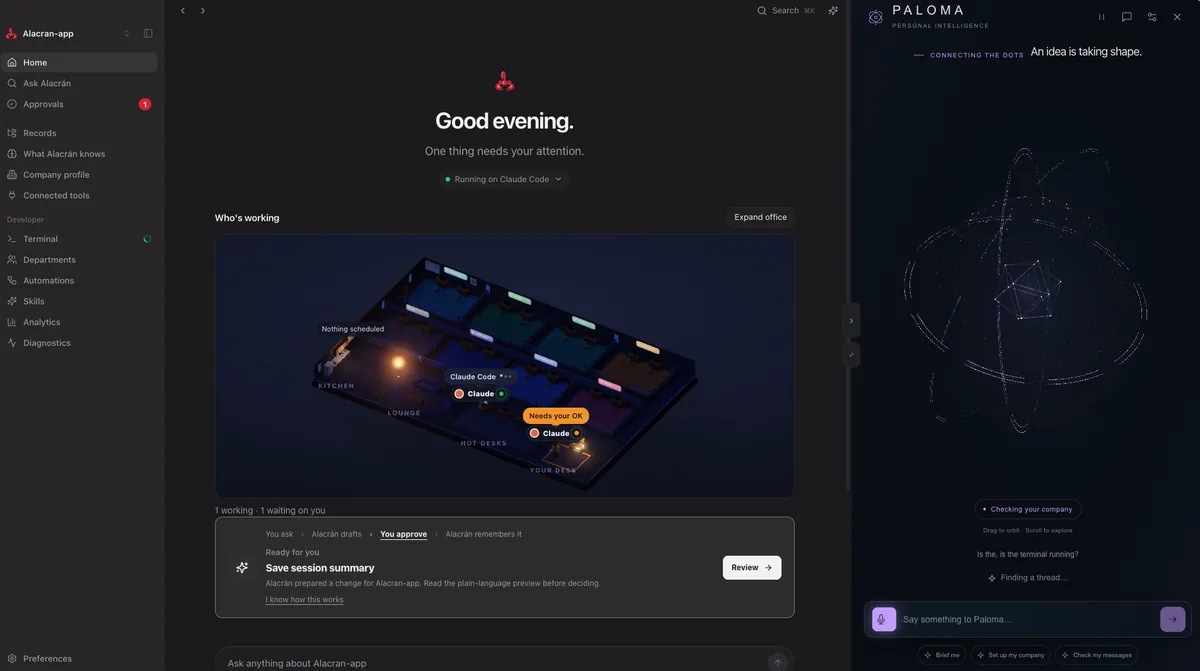
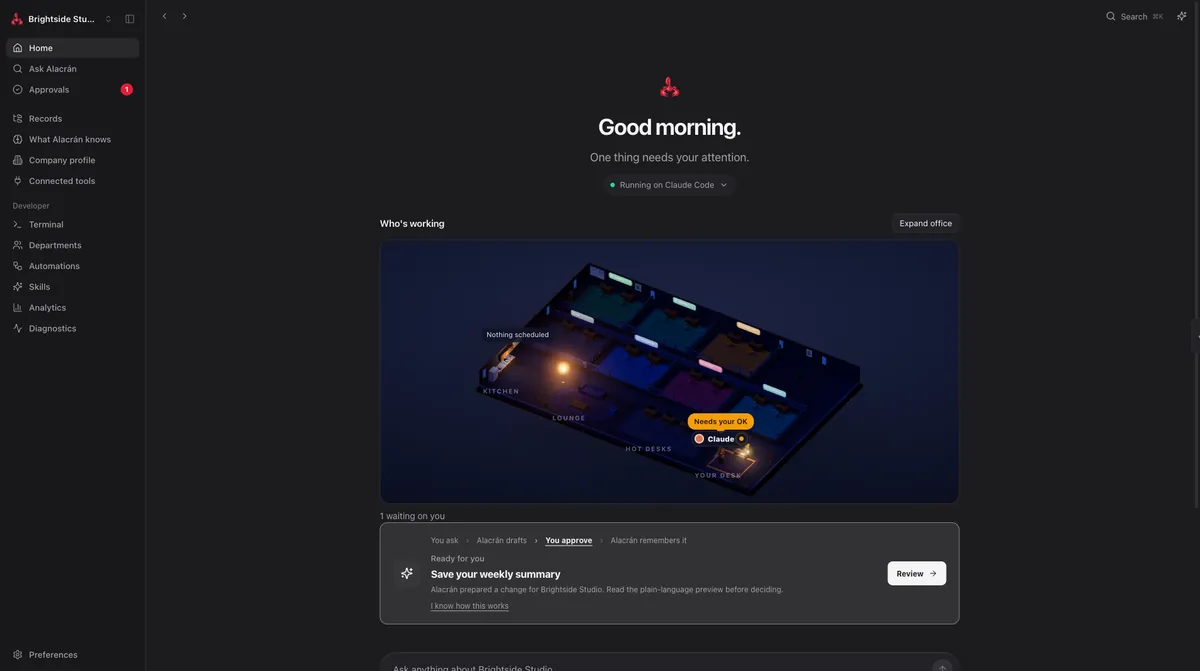
Retake website screenshots from an example company
Six screenshots showed the maintainer's home path, first name or the
internal dev workspace. They are retaken from a throwaway example company
(Brightside Studio) and now carry the sample-data label like the rest.

diff --git a/landing/how-to-use/index.html b/landing/how-to-use/index.html
@@ -43,20 +43,20 @@
 <p>Start with your priorities. Give your AI a specific task. Review the result, update your records, and keep the reasoning for next time.</p>
 <p>New to the app? <a class="go" href="/getting-started">Start with installation <span aria-hidden="true">→</span></a></p></div><div class="hero-vis " aria-hidden="true"><small class="cap">A day with Alacrán</small><ol class="check"><li style="--n:0">Start with the morning briefing</li><li style="--n:1">Choose a department and a task</li><li style="--n:2">Review proposed work</li><li style="--n:3">Keep what is useful</li><li style="--n:4">Turn good tasks into routines</li></ol></div></section>
 <section class="sec "><div class="sec-in"><div class="reveal"><h2 data-split>Start with the morning briefing.</h2></div><div class="reveal"><p>Open your company workspace to see recent activity and work needing attention. Check when each department was last updated before treating its figures as current.</p>
-<figure class="prompt" data-tilt><figcaption>Try asking</figcaption><blockquote><p>Summarize recent activity, work waiting for review, and the three issues I should investigate first. Identify missing or outdated information.</p></blockquote></figure><figure class="shot " data-scroll3d><div class="shot-frame"><div class="bar"><i></i><i></i><i></i><span>Alacrán</span></div><picture><source media="(max-width: 720px)" srcset="/screens/office-light-detail.webp" width="952" height="670"><img src="/screens/office-light-1200.webp" srcset="/screens/office-light-1200.webp 1200w, /screens/office-light.webp 1904w" sizes="(max-width: 1200px) 100vw, 1100px" width="1200" height="671" alt="Home screen in the light theme: the agent office, one agent waiting for approval, and a session summary ready to review" loading="lazy"></picture></div><figcaption class="shot-foot"><span class="disclosure">Alacrán&#x27;s own workspace</span><button type="button" class="zoom" data-full="/screens/office-light.webp" data-alt="Home screen in the light theme: the agent office, one agent waiting for approval, and a session summary ready to review">View full screenshot</button></figcaption></figure></div></div></section>
+<figure class="prompt" data-tilt><figcaption>Try asking</figcaption><blockquote><p>Summarize recent activity, work waiting for review, and the three issues I should investigate first. Identify missing or outdated information.</p></blockquote></figure><figure class="shot " data-scroll3d><div class="shot-frame"><div class="bar"><i></i><i></i><i></i><span>Alacrán</span></div><picture><source media="(max-width: 720px)" srcset="/screens/office-light-detail.webp" width="952" height="670"><img src="/screens/office-light-1200.webp" srcset="/screens/office-light-1200.webp 1200w, /screens/office-light.webp 1904w" sizes="(max-width: 1200px) 100vw, 1100px" width="1200" height="671" alt="Home screen in the light theme: the agent office, one agent waiting for approval, and a weekly summary ready to review" loading="lazy"></picture></div><figcaption class="shot-foot"><span class="disclosure">Example company · Sample data</span><button type="button" class="zoom" data-full="/screens/office-light.webp" data-alt="Home screen in the light theme: the agent office, one agent waiting for approval, and a weekly summary ready to review">View full screenshot</button></figcaption></figure></div></div></section>
 <section class="sec alt"><div class="sec-in"><div class="reveal"><h2 data-split>Choose a department and a concrete task.</h2></div><div class="reveal"><p>In Customers, review the opportunities that need follow-up. In Finances, inspect the latest recorded income and expenses. In Content, move an idea into a draft. In Messages, work through inquiries that need a response.</p>
 <figure class="prompt" data-tilt><figcaption>A clear task gives the agent a useful target</figcaption><blockquote><p>Draft a follow-up for this prospect using our recorded conversation and approved service description. Do not invent a price or promise a delivery date.</p></blockquote></figure></div></div></section>
 <section class="sec "><div class="sec-in"><div class="reveal"><h2 data-split>Review proposed work.</h2></div><div class="reveal"><p>Read the result and inspect any proposed file changes. Use the risk indicator to help prioritize review, then approve, request changes, or discard the proposal.</p>
 <figure class="prompt" data-tilt><figcaption>A revision can be specific</figcaption><blockquote><p>Keep the introduction. Shorten the proposal, remove the unconfirmed deadline, and ask one clear question at the end.</p></blockquote></figure>
-<p>Saving a draft and sending it are separate steps. Check the workflow before taking an external action.</p><figure class="shot " data-scroll3d><div class="shot-frame"><div class="bar"><i></i><i></i><i></i><span>Alacrán</span></div><picture><source media="(max-width: 720px)" srcset="/screens/approvals-detail.webp" width="1000" height="433"><img src="/screens/approvals-1200.webp" srcset="/screens/approvals-1200.webp 1200w, /screens/approvals.webp 1904w" sizes="(max-width: 1200px) 100vw, 1100px" width="1200" height="416" alt="Approvals screen with one pending review marked high risk, listing files the run changed outside its own folder" loading="lazy"></picture></div><figcaption class="shot-foot"><span class="disclosure">Alacrán&#x27;s own workspace</span><button type="button" class="zoom" data-full="/screens/approvals.webp" data-alt="Approvals screen with one pending review marked high risk, listing files the run changed outside its own folder">View full screenshot</button></figcaption></figure></div></div></section>
+<p>Saving a draft and sending it are separate steps. Check the workflow before taking an external action.</p><figure class="shot " data-scroll3d><div class="shot-frame"><div class="bar"><i></i><i></i><i></i><span>Alacrán</span></div><picture><source media="(max-width: 720px)" srcset="/screens/approvals-detail.webp" width="1000" height="699"><img src="/screens/approvals-1200.webp" srcset="/screens/approvals-1200.webp 1200w, /screens/approvals.webp 1904w" sizes="(max-width: 1200px) 100vw, 1100px" width="1200" height="671" alt="Approvals screen with one pending review marked high risk, listing files the run changed outside its own folder" loading="lazy"></picture></div><figcaption class="shot-foot"><span class="disclosure">Example company · Sample data</span><button type="button" class="zoom" data-full="/screens/approvals.webp" data-alt="Approvals screen with one pending review marked high risk, listing files the run changed outside its own folder">View full screenshot</button></figcaption></figure></div></div></section>
 <section class="sec alt" id="template"><div class="sec-in"><div class="reveal"><h2 data-split>Keep your company knowledge useful.</h2></div><div class="reveal"><p>Maintain the company profile as your products, customers, team, and operating rules change. The quality of later work depends on the information available to it.</p></div></div></section>
 <section class="sec " id="decisions"><div class="sec-in"><div class="reveal"><h2 data-split>Record why a decision was made.</h2></div><div class="reveal"><p>Save the choice, the alternatives considered, and the reason behind it. Include what new information would justify revisiting it.</p>
 <figure class="prompt" data-tilt><figcaption>Try asking</figcaption><blockquote><p>Prepare a decision note from this discussion. Separate the decision, the supporting evidence, and the assumptions we still need to test.</p></blockquote></figure></div></div></section>
 <section class="sec alt" id="records"><div class="sec-in"><div class="reveal"><h2 data-split>Maintain operational records.</h2></div><div class="reveal"><p>Review department updates against their source information. Keep customer stages, content status, and financial entries current so later summaries reflect the business as it is.</p></div></div></section>
 <section class="sec "><div class="sec-in"><div class="reveal"><h2 data-split>Turn useful tasks into repeatable workflows.</h2></div><div class="reveal"><p>Once a task produces a useful result, reuse an appropriate skill or configure a recurring job. Monitor the run status and review its output.</p>
-<p>Local background work depends on the app, computer, and required connections being available. Closing the window can leave work running; quitting the app stops its local processes.</p><figure class="shot " data-scroll3d><div class="shot-frame"><div class="bar"><i></i><i></i><i></i><span>Alacrán</span></div><picture><source media="(max-width: 720px)" srcset="/screens/workflows-detail.webp" width="1000" height="415"><img src="/screens/workflows-1200.webp" srcset="/screens/workflows-1200.webp 1200w, /screens/workflows.webp 1904w" sizes="(max-width: 1200px) 100vw, 1100px" width="1200" height="671" alt="Workflows screen with daily cadence and governance workflows, each with Run in Terminal and Prepare draft buttons" loading="lazy"></picture></div><figcaption class="shot-foot"><span class="disclosure">Alacrán&#x27;s own workspace</span><button type="button" class="zoom" data-full="/screens/workflows.webp" data-alt="Workflows screen with daily cadence and governance workflows, each with Run in Terminal and Prepare draft buttons">View full screenshot</button></figcaption></figure></div></div></section>
+<p>Local background work depends on the app, computer, and required connections being available. Closing the window can leave work running; quitting the app stops its local processes.</p><figure class="shot " data-scroll3d><div class="shot-frame"><div class="bar"><i></i><i></i><i></i><span>Alacrán</span></div><picture><source media="(max-width: 720px)" srcset="/screens/workflows-detail.webp" width="1000" height="415"><img src="/screens/workflows-1200.webp" srcset="/screens/workflows-1200.webp 1200w, /screens/workflows.webp 1904w" sizes="(max-width: 1200px) 100vw, 1100px" width="1200" height="671" alt="Workflows screen with daily cadence and governance workflows, each with Run in Terminal and Prepare draft buttons" loading="lazy"></picture></div><figcaption class="shot-foot"><span class="disclosure">Example company · Sample data</span><button type="button" class="zoom" data-full="/screens/workflows.webp" data-alt="Workflows screen with daily cadence and governance workflows, each with Run in Terminal and Prepare draft buttons">View full screenshot</button></figcaption></figure></div></div></section>
 <section class="sec alt" id="assistant"><div class="sec-in"><div class="reveal"><h2 data-split>Use the assistant your way.</h2></div><div class="reveal"><p>Type a request or use supported voice input. Choose your assistant’s language, tone, and voice settings. Voice processing depends on the selected provider and configuration.</p>
-<p>For technical work, Advanced mode exposes terminals, agent workspaces, skills, and connection configuration.</p><figure class="shot " data-scroll3d><div class="shot-frame"><div class="bar"><i></i><i></i><i></i><span>Alacrán</span></div><picture><source media="(max-width: 720px)" srcset="/screens/preferences-detail.webp" width="723" height="692"><img src="/screens/preferences-1200.webp" srcset="/screens/preferences-1200.webp 1200w, /screens/preferences.webp 1904w" sizes="(max-width: 1200px) 100vw, 1100px" width="1200" height="671" alt="Preferences screen where you name the assistant, choose the languages you each speak, and pick its voice" loading="lazy"></picture></div><figcaption class="shot-foot"><span class="disclosure">Alacrán&#x27;s own workspace</span><button type="button" class="zoom" data-full="/screens/preferences.webp" data-alt="Preferences screen where you name the assistant, choose the languages you each speak, and pick its voice">View full screenshot</button></figcaption></figure></div></div></section>
+<p>For technical work, Advanced mode exposes terminals, agent workspaces, skills, and connection configuration.</p><figure class="shot " data-scroll3d><div class="shot-frame"><div class="bar"><i></i><i></i><i></i><span>Alacrán</span></div><picture><source media="(max-width: 720px)" srcset="/screens/preferences-detail.webp" width="723" height="692"><img src="/screens/preferences-1200.webp" srcset="/screens/preferences-1200.webp 1200w, /screens/preferences.webp 1904w" sizes="(max-width: 1200px) 100vw, 1100px" width="1200" height="671" alt="Preferences screen where you name the assistant, choose the languages you each speak, and pick its voice" loading="lazy"></picture></div><figcaption class="shot-foot"><span class="disclosure">Example company · Sample data</span><button type="button" class="zoom" data-full="/screens/preferences.webp" data-alt="Preferences screen where you name the assistant, choose the languages you each speak, and pick its voice">View full screenshot</button></figcaption></figure></div></div></section>
 <section class="sec "><div class="sec-in"><div class="reveal"><h2 data-split>Switch companies deliberately.</h2></div><div class="reveal"><p>Keep each business in its own workspace. Before sharing context through Company Strings, inspect what will become available to the other workspace. Cross-company questions should use only the scope you intend.</p></div></div></section>
 <section class="sec alt"><div class="sec-in"><div class="reveal"><h2 data-split>Check the system when something looks wrong.</h2></div><div class="reveal"><p>Use System Doctor to inspect company files, record validation, repository status, and connector readiness. Review suggested repairs before applying them.</p>
 <div class="actions"><a class="btn btn-ghost" href="/use-cases">Find a workflow to try</a></div></div></div></section>

diff --git a/landing/index.html b/landing/index.html
@@ -54,7 +54,7 @@
 <section class="sec tour" id="tour"><div class="sec-in">
   <div class="reveal"><h2>See the work move forward.</h2><p class="lede">Screens from the app: what needs you today, a change waiting for review, and the company memory your agents read.</p></div>
   <span class="stamp" aria-hidden="true">Approved</span><div class="tabs reveal" role="tablist" aria-label="Product tour"><button type="button" role="tab" id="tt-0" aria-controls="tp-0" aria-selected="true">Morning briefing</button><button type="button" role="tab" id="tt-1" aria-controls="tp-1" aria-selected="false" tabindex="-1">Review</button><button type="button" role="tab" id="tt-2" aria-controls="tp-2" aria-selected="false" tabindex="-1">Company memory</button></div>
-  <figure class="shot shot-tour" data-scroll3d><div class="shot-frame"><div class="bar"><i></i><i></i><i></i><span>Alacrán</span></div><div role="tabpanel" id="tp-0" aria-labelledby="tt-0" class="tour-panel"><div class="tour-media"><picture><source media="(max-width: 720px)" srcset="/screens/office-dark-detail.webp" width="1000" height="686"><img src="/screens/office-dark-1200.webp" srcset="/screens/office-dark-1200.webp 1200w, /screens/office-dark.webp 1904w" sizes="(max-width: 1200px) 100vw, 1100px" width="1200" height="671" alt="Home screen greeting with one item needing attention, a 3D office showing which agents are working, a change ready for review, and the voice assistant open beside it"></picture></div><div class="tour-cap"><p>See what needs your attention and which agents are working.</p><p class="shot-foot"><span class="disclosure">Alacrán&#x27;s own workspace</span><button type="button" class="zoom" data-full="/screens/office-dark.webp" data-alt="Home screen greeting with one item needing attention, a 3D office showing which agents are working, a change ready for review, and the voice assistant open beside it">View full screenshot</button></p></div></div><div role="tabpanel" id="tp-1" aria-labelledby="tt-1" class="tour-panel" hidden><div class="tour-media"><picture><source media="(max-width: 720px)" srcset="/screens/approvals-detail.webp" width="1000" height="433"><img src="/screens/approvals-1200.webp" srcset="/screens/approvals-1200.webp 1200w, /screens/approvals.webp 1904w" sizes="(max-width: 1200px) 100vw, 1100px" width="1200" height="416" alt="Approvals screen with one pending review marked high risk, listing files the run changed outside its own folder" loading="lazy"></picture></div><div class="tour-cap"><p>Check a proposed change, see what it touched, and choose what to keep.</p><p class="shot-foot"><span class="disclosure">Alacrán&#x27;s own workspace</span><button type="button" class="zoom" data-full="/screens/approvals.webp" data-alt="Approvals screen with one pending review marked high risk, listing files the run changed outside its own folder">View full screenshot</button></p></div></div><div role="tabpanel" id="tp-2" aria-labelledby="tt-2" class="tour-panel" hidden><div class="tour-media"><picture><source media="(max-width: 720px)" srcset="/screens/memory-detail.webp" width="1000" height="528"><img src="/screens/memory-1200.webp" srcset="/screens/memory-1200.webp 1200w, /screens/memory.webp 2000w" sizes="(max-width: 1200px) 100vw, 1100px" width="1200" height="750" alt="Company memory map linking definitions, decisions, records and agents" loading="lazy"></picture></div><div class="tour-cap"><p>See the facts, decisions and records your agents read, mapped in one place.</p><p class="shot-foot"><span class="disclosure">Example company · Sample data</span><button type="button" class="zoom" data-full="/screens/memory.webp" data-alt="Company memory map linking definitions, decisions, records and agents">View full screenshot</button></p></div></div></div></figure>
+  <figure class="shot shot-tour" data-scroll3d><div class="shot-frame"><div class="bar"><i></i><i></i><i></i><span>Alacrán</span></div><div role="tabpanel" id="tp-0" aria-labelledby="tt-0" class="tour-panel"><div class="tour-media"><picture><source media="(max-width: 720px)" srcset="/screens/office-dark-detail.webp" width="1000" height="686"><img src="/screens/office-dark-1200.webp" srcset="/screens/office-dark-1200.webp 1200w, /screens/office-dark.webp 1904w" sizes="(max-width: 1200px) 100vw, 1100px" width="1200" height="671" alt="Home screen in the dark theme: one item needing attention, the 3D agent office with an agent waiting for approval, and a weekly summary ready to review"></picture></div><div class="tour-cap"><p>See what needs your attention and which agents are working.</p><p class="shot-foot"><span class="disclosure">Example company · Sample data</span><button type="button" class="zoom" data-full="/screens/office-dark.webp" data-alt="Home screen in the dark theme: one item needing attention, the 3D agent office with an agent waiting for approval, and a weekly summary ready to review">View full screenshot</button></p></div></div><div role="tabpanel" id="tp-1" aria-labelledby="tt-1" class="tour-panel" hidden><div class="tour-media"><picture><source media="(max-width: 720px)" srcset="/screens/approvals-detail.webp" width="1000" height="699"><img src="/screens/approvals-1200.webp" srcset="/screens/approvals-1200.webp 1200w, /screens/approvals.webp 1904w" sizes="(max-width: 1200px) 100vw, 1100px" width="1200" height="671" alt="Approvals screen with one pending review marked high risk, listing files the run changed outside its own folder" loading="lazy"></picture></div><div class="tour-cap"><p>Check a proposed change, see what it touched, and choose what to keep.</p><p class="shot-foot"><span class="disclosure">Example company · Sample data</span><button type="button" class="zoom" data-full="/screens/approvals.webp" data-alt="Approvals screen with one pending review marked high risk, listing files the run changed outside its own folder">View full screenshot</button></p></div></div><div role="tabpanel" id="tp-2" aria-labelledby="tt-2" class="tour-panel" hidden><div class="tour-media"><picture><source media="(max-width: 720px)" srcset="/screens/memory-detail.webp" width="1000" height="528"><img src="/screens/memory-1200.webp" srcset="/screens/memory-1200.webp 1200w, /screens/memory.webp 2000w" sizes="(max-width: 1200px) 100vw, 1100px" width="1200" height="750" alt="Company memory map linking definitions, decisions, records and agents" loading="lazy"></picture></div><div class="tour-cap"><p>See the facts, decisions and records your agents read, mapped in one place.</p><p class="shot-foot"><span class="disclosure">Example company · Sample data</span><button type="button" class="zoom" data-full="/screens/memory.webp" data-alt="Company memory map linking definitions, decisions, records and agents">View full screenshot</button></p></div></div></div></figure>
 </div></section>
 <section class="sec" id="features"><div class="sec-in"><div class="reveal"><h2 data-split>Know what needs you. Give AI the work it can help with.</h2></div><div class="cards cols-2 bento"><article class="card" style="--i:0"><span class="num">01</span><div class="cell-vis" aria-hidden="true"><div class="row need" style="--n:0"><i></i>Customer inquiry waiting</div><div class="row" style="--n:1"><i></i>3 follow-ups ready</div><div class="row" style="--n:2"><i></i>Finances refreshed</div><div class="row" style="--n:3"><i></i>2 drafts to review</div></div><h3>See what needs your attention.</h3><p>Bring recent changes, pending work, and department activity into one briefing. Check what is current and what needs a refresh.</p></article><article class="card" style="--i:1"><span class="num">02</span><div class="cell-vis" aria-hidden="true"><div class="row" style="--n:0"><i></i><span class="type" style="--n:0;--w:24ch">definitions/company.yaml</span></div><div class="row" style="--n:1"><i></i><span class="type" style="--n:1;--w:22ch">docs/decisions/pricing.md</span></div><div class="row" style="--n:2"><i></i><span class="type" style="--n:2;--w:25ch">notes/company/sessions/</span></div></div><h3>Give AI your business context.</h3><p>Keep business facts, working notes, and past decisions together so your connected AI can use them in the next task.</p></article><article class="card" style="--i:2"><span class="num">03</span><div class="cell-vis days" aria-hidden="true"><u style="--n:0;--h:0.5"></u><u style="--n:1;--h:0.8"></u><u style="--n:2;--h:0.6"></u><u style="--n:3;--h:1"></u><u style="--n:4;--h:0.7"></u><u style="--n:5;--h:0.4"></u><u style="--n:6;--h:0.9"></u><em>Runs every morning</em></div><h3>Build a routine for recurring work.</h3><p>Use built-in skills and recurring jobs for summaries, department updates, research, and reviews. See what is running and what is ready.</p></article><article class="card" style="--i:3"><span class="num">04</span><div class="cell-vis diff" aria-hidden="true"><p class="del">- Reply by Friday</p><p class="add">+ Reply by Thursday, menu attached</p><p class="add">+ Offer the team a tasting</p><div class="go-row"><em>Approve</em><em>Ask for changes</em></div><span class="stamp">Saved</span></div><h3>Review changes before keeping them.</h3><p>Inspect proposed file changes from managed workflows, request revisions, and approve the work you want to save.</p></article></div></div></section>
 <section class="sec" id="departments"><div class="sec-in"><div class="reveal"><h2 data-split>One workspace for the work around your business.</h2></div><div class="depts"><article class="dept"><span class="idx">01</span><h3>Customers</h3><p>Research prospects, track opportunities, and prepare follow-ups with the customer context close at hand.</p>

diff --git a/landing/docs/index.html b/landing/docs/index.html
@@ -49,7 +49,7 @@
 <section class="sec alt"><div class="sec-in"><div class="reveal"><h2 data-split>Company memory and knowledge lifecycle</h2></div><div class="reveal"><p>The company profile provides a shared reference for business facts. Notes and records add operational context. Decision logs preserve why a choice was made.</p>
 <p>The knowledge graph helps explore relationships between entities, files, facts, and decisions. Lifecycle states distinguish draft, proposed, active, and deprecated knowledge. A graph view helps navigate information; it does not certify that the information is complete or correct.</p></div></div></section>
 <section class="sec "><div class="sec-in"><div class="reveal"><h2 data-split>Departments and structured records</h2></div><div class="reveal"><p>Department screens bring together metrics, records, connection status, and relevant agent actions. Record schemas help validate the structure of saved data. Custom departments can define additional records and workflows for specialized operations.</p>
-<p>Validation can detect malformed data. It cannot establish that a customer statement, financial entry, or AI conclusion is true.</p><figure class="shot " data-scroll3d><div class="shot-frame"><div class="bar"><i></i><i></i><i></i><span>Alacrán</span></div><picture><source media="(max-width: 720px)" srcset="/screens/departments-detail.webp" width="1000" height="428"><img src="/screens/departments-1200.webp" srcset="/screens/departments-1200.webp 1200w, /screens/departments.webp 1904w" sizes="(max-width: 1200px) 100vw, 1100px" width="1200" height="671" alt="Departments screen listing each department with its record files, and the people who sign off on changes" loading="lazy"></picture></div><figcaption class="shot-foot"><span class="disclosure">Alacrán&#x27;s own workspace</span><button type="button" class="zoom" data-full="/screens/departments.webp" data-alt="Departments screen listing each department with its record files, and the people who sign off on changes">View full screenshot</button></figcaption></figure></div></div></section>
+<p>Validation can detect malformed data. It cannot establish that a customer statement, financial entry, or AI conclusion is true.</p><figure class="shot " data-scroll3d><div class="shot-frame"><div class="bar"><i></i><i></i><i></i><span>Alacrán</span></div><picture><source media="(max-width: 720px)" srcset="/screens/departments-detail.webp" width="1000" height="428"><img src="/screens/departments-1200.webp" srcset="/screens/departments-1200.webp 1200w, /screens/departments.webp 1904w" sizes="(max-width: 1200px) 100vw, 1100px" width="1200" height="671" alt="Departments screen listing each department with its record files, and the people who sign off on changes" loading="lazy"></picture></div><figcaption class="shot-foot"><span class="disclosure">Example company · Sample data</span><button type="button" class="zoom" data-full="/screens/departments.webp" data-alt="Departments screen listing each department with its record files, and the people who sign off on changes">View full screenshot</button></figcaption></figure></div></div></section>
 <section class="sec alt"><div class="sec-in"><div class="reveal"><h2 data-split>Agent execution</h2></div><div class="reveal"><p>Choose a supported executor globally or for a company. Alacrán supplies company context and interfaces for tasks, run visibility, and review.</p>
 <p>Advanced workspaces include embedded terminals and multiple terminal views. Managed agent commands can use isolated Git worktrees to separate proposed work from the main working tree. Session notes help preserve useful context from completed work.</p>
 <p>Worktree isolation separates file changes; it is not, by itself, a security sandbox for network access, credentials, or external services.</p></div></div></section>
@@ -63,7 +63,7 @@
 <p>Severing a link removes the ongoing sharing relationship. It does not retract information already used in a result, copied elsewhere, or sent to an external provider.</p></div></div></section>
 <section class="sec "><div class="sec-in"><div class="reveal"><h2 data-split>Skills and recurring workflows</h2></div><div class="reveal"><p>Skills package reusable instructions for particular tasks. Built-in commands cover company definition, briefings, decisions, retrospectives, department synchronization, message triage, and engineering work.</p>
 <p>The skills editor supports adapting and versioning these instructions. Workflow maps show the structure of operational processes, while execution records help track runs.</p>
-<p>Scheduled work requires the local application and relevant dependencies to remain available. Use the visible run status to distinguish a completed job from a missed or failed run.</p><figure class="shot " data-scroll3d><div class="shot-frame"><div class="bar"><i></i><i></i><i></i><span>Alacrán</span></div><picture><source media="(max-width: 720px)" srcset="/screens/workflows-detail.webp" width="1000" height="415"><img src="/screens/workflows-1200.webp" srcset="/screens/workflows-1200.webp 1200w, /screens/workflows.webp 1904w" sizes="(max-width: 1200px) 100vw, 1100px" width="1200" height="671" alt="Workflows screen with daily cadence and governance workflows, each with Run in Terminal and Prepare draft buttons" loading="lazy"></picture></div><figcaption class="shot-foot"><span class="disclosure">Alacrán&#x27;s own workspace</span><button type="button" class="zoom" data-full="/screens/workflows.webp" data-alt="Workflows screen with daily cadence and governance workflows, each with Run in Terminal and Prepare draft buttons">View full screenshot</button></figcaption></figure></div></div></section>
+<p>Scheduled work requires the local application and relevant dependencies to remain available. Use the visible run status to distinguish a completed job from a missed or failed run.</p><figure class="shot " data-scroll3d><div class="shot-frame"><div class="bar"><i></i><i></i><i></i><span>Alacrán</span></div><picture><source media="(max-width: 720px)" srcset="/screens/workflows-detail.webp" width="1000" height="415"><img src="/screens/workflows-1200.webp" srcset="/screens/workflows-1200.webp 1200w, /screens/workflows.webp 1904w" sizes="(max-width: 1200px) 100vw, 1100px" width="1200" height="671" alt="Workflows screen with daily cadence and governance workflows, each with Run in Terminal and Prepare draft buttons" loading="lazy"></picture></div><figcaption class="shot-foot"><span class="disclosure">Example company · Sample data</span><button type="button" class="zoom" data-full="/screens/workflows.webp" data-alt="Workflows screen with daily cadence and governance workflows, each with Run in Terminal and Prepare draft buttons">View full screenshot</button></figcaption></figure></div></div></section>
 <section class="sec alt" id="data-and-connections"><div class="sec-in"><div class="reveal"><h2 data-split>Data and connections</h2></div><div class="reveal"><p>Company records are stored on your computer. AI execution can send prompts and relevant context to the selected provider. Voice features may send audio to a speech service. Connected tools exchange information with the services you enable. Optional GitHub backup transfers files to your configured repository.</p>
 <p>Local storage does not imply fully offline operation or that every answer is produced locally. Some direct factual lookups may be resolved from saved records; generative work depends on the configured agent.</p></div></div></section>
 <section class="sec "><div class="sec-in"><div class="reveal"><h2 data-split>Diagnostics and maintenance</h2></div><div class="reveal"><p>System Doctor checks repository condition, expected folders, dependencies, connector readiness, and record structure. Suggested repair actions help address detected problems.</p>

diff --git a/landing/build-site.py b/landing/build-site.py
@@ -39,19 +39,19 @@ DOWNLOAD_LABEL = "Download Alacrán"
 # read from the files. The detail crop (fractions left, top, right, bottom) is
 # what a phone shows, because a whole desktop window at 360px is unreadable;
 # build_details() cuts it to <name>-detail.webp. Sample-company shots carry the
-# copy's disclosure; shots of Alacrán's own workspace say so instead, because
-# "Sample data" would be false on them.
-SAMPLE, OWN = "Example company · Sample data", "Alacrán's own workspace"
+# copy's disclosure. Every shot comes from a throwaway example company, never a
+# real workspace, so each carries it.
+SAMPLE = "Example company · Sample data"
 SHOTS = {
     "content": ("Content and social screen with approved post drafts for an example company", SAMPLE, (.22, .11, .71, .96)),
     "memory": ("Company memory map linking definitions, decisions, records and agents", SAMPLE, (.2, .27, .98, .93)),
     "finances": ("Finances screen showing cash on hand, monthly burn and estimated runway for an example company", SAMPLE, (.2, .27, .97, .9)),
-    "office-dark": ("Home screen greeting with one item needing attention, a 3D office showing which agents are working, a change ready for review, and the voice assistant open beside it", OWN, (.17, .28, .7, .93)),
-    "office-light": ("Home screen in the light theme: the agent office, one agent waiting for approval, and a session summary ready to review", OWN, (.32, .3, .82, .93)),
-    "approvals": ("Approvals screen with one pending review marked high risk, listing files the run changed outside its own folder", OWN, (.32, .15, 1, 1)),
-    "departments": ("Departments screen listing each department with its record files, and the people who sign off on changes", OWN, (.14, .1, .99, .75)),
-    "workflows": ("Workflows screen with daily cadence and governance workflows, each with Run in Terminal and Prepare draft buttons", OWN, (.14, .12, .99, .75)),
-    "preferences": ("Preferences screen where you name the assistant, choose the languages you each speak, and pick its voice", OWN, (.38, .2, .76, .85)),
+    "office-dark": ("Home screen in the dark theme: one item needing attention, the 3D agent office with an agent waiting for approval, and a weekly summary ready to review", SAMPLE, (.17, .28, .7, .93)),
+    "office-light": ("Home screen in the light theme: the agent office, one agent waiting for approval, and a weekly summary ready to review", SAMPLE, (.32, .3, .82, .93)),
+    "approvals": ("Approvals screen with one pending review marked high risk, listing files the run changed outside its own folder", SAMPLE, (.32, .15, 1, 1)),
+    "departments": ("Departments screen listing each department with its record files, and the people who sign off on changes", SAMPLE, (.14, .1, .99, .75)),
+    "workflows": ("Workflows screen with daily cadence and governance workflows, each with Run in Terminal and Prepare draft buttons", SAMPLE, (.14, .12, .99, .75)),
+    "preferences": ("Preferences screen where you name the assistant, choose the languages you each speak, and pick its voice", SAMPLE, (.38, .2, .76, .85)),
     # The tour's four captures: one sample company (Brightside Studio) and one
     # inquiry (Northstar Café), captured from the real app. Until all four
     # exist the tour runs in interim mode; see tour().
